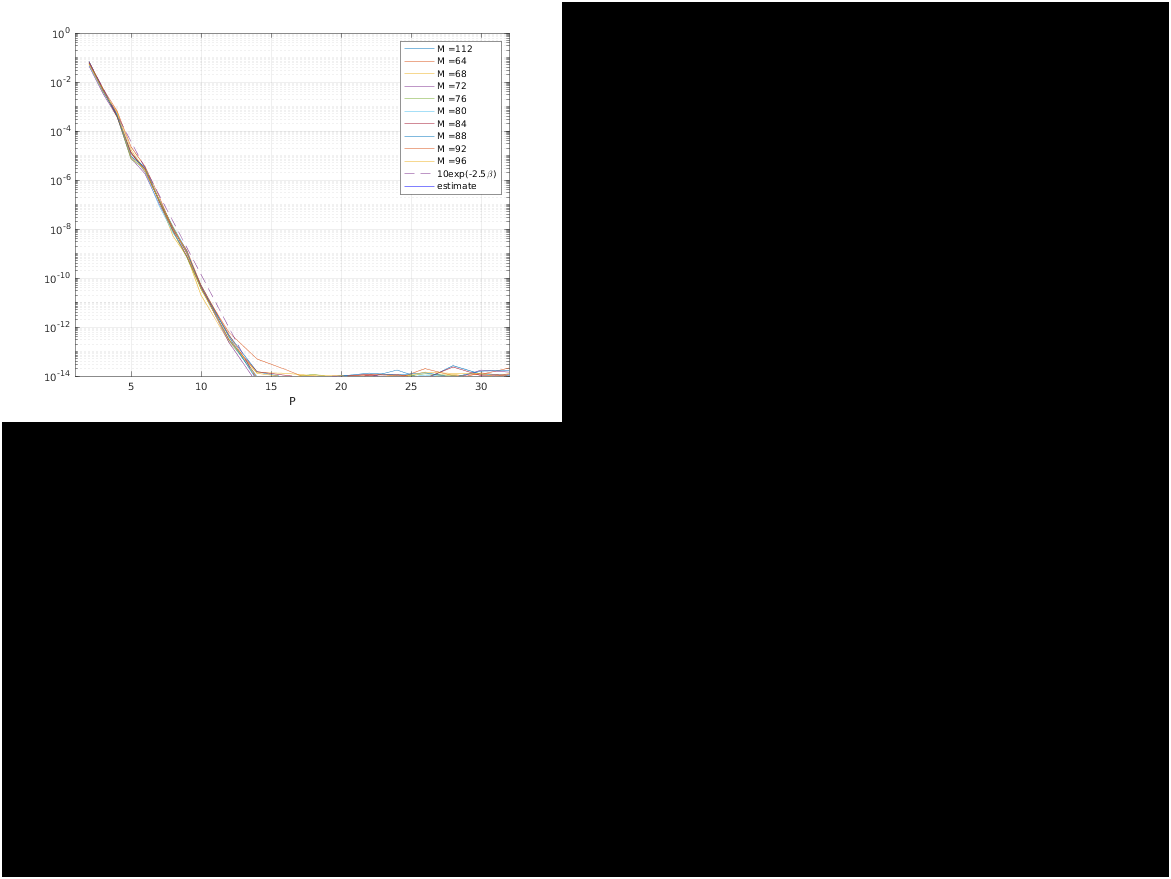
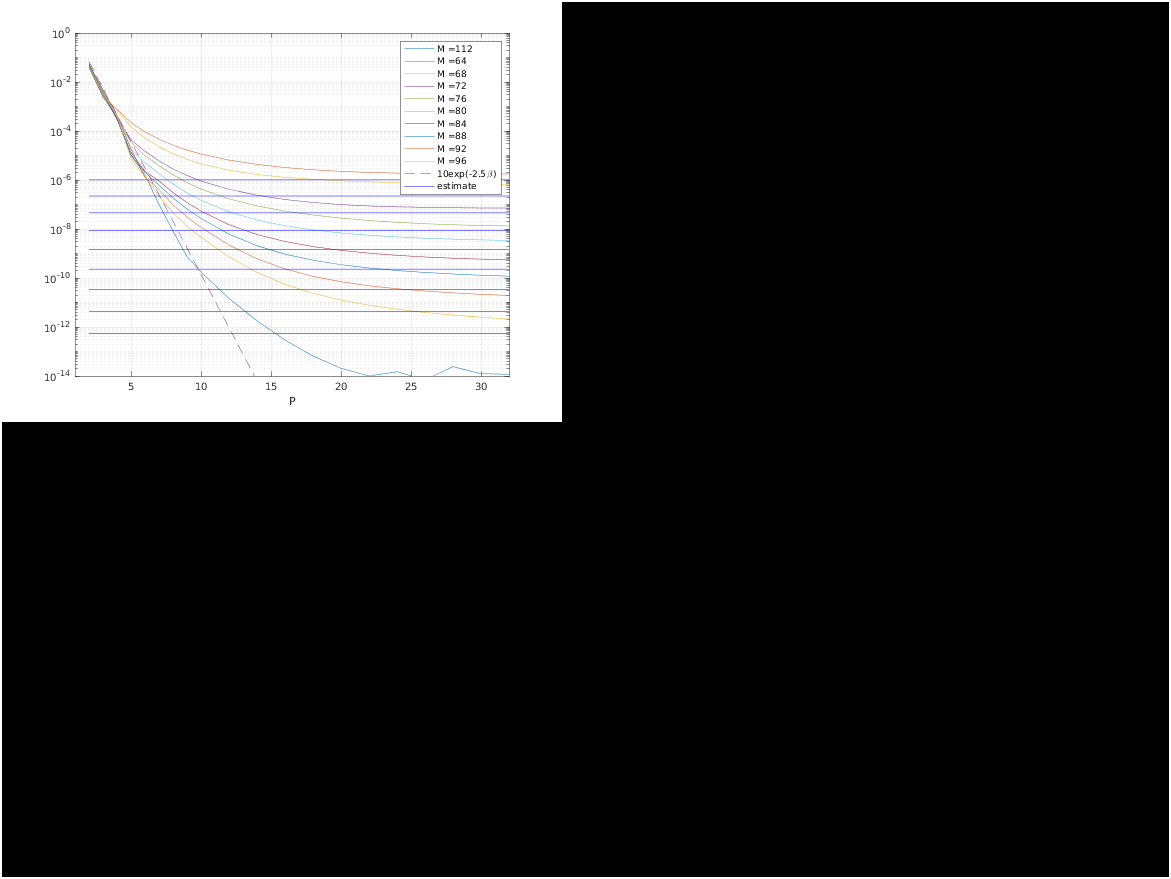
imgs

Changed region(s): [[0.0922, 0.1229, 0.4304, 0.43], [0.3074, 0.3993, 0.4304, 0.43], [0.0615, 0.0922, 0.0922, 0.1229]]

diff --git a/SE_Stokes_run/SE3P_Stokes/P_error.m b/SE_Stokes_run/SE3P_Stokes/P_error.m
@@ -8,7 +8,7 @@ N = 10; % number of source particles
 
 
 %% Parameter selection
-L = 1; % box side length
+L = 2; % box side length
 box = [L L L]; % periodic box
 opt.box = box;
 
